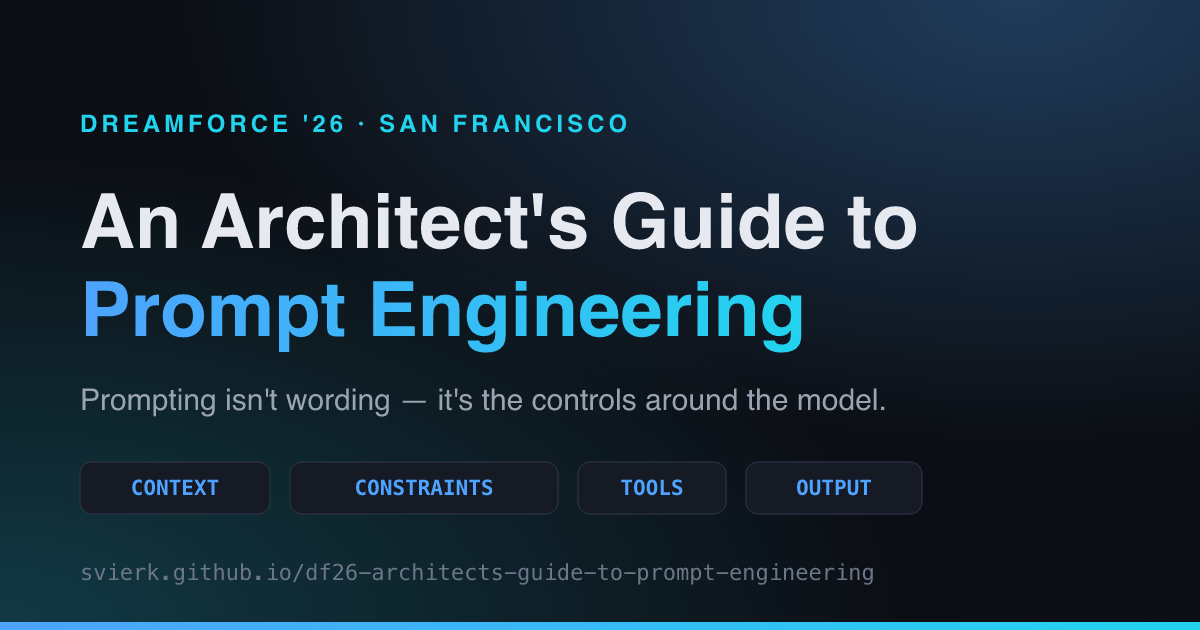
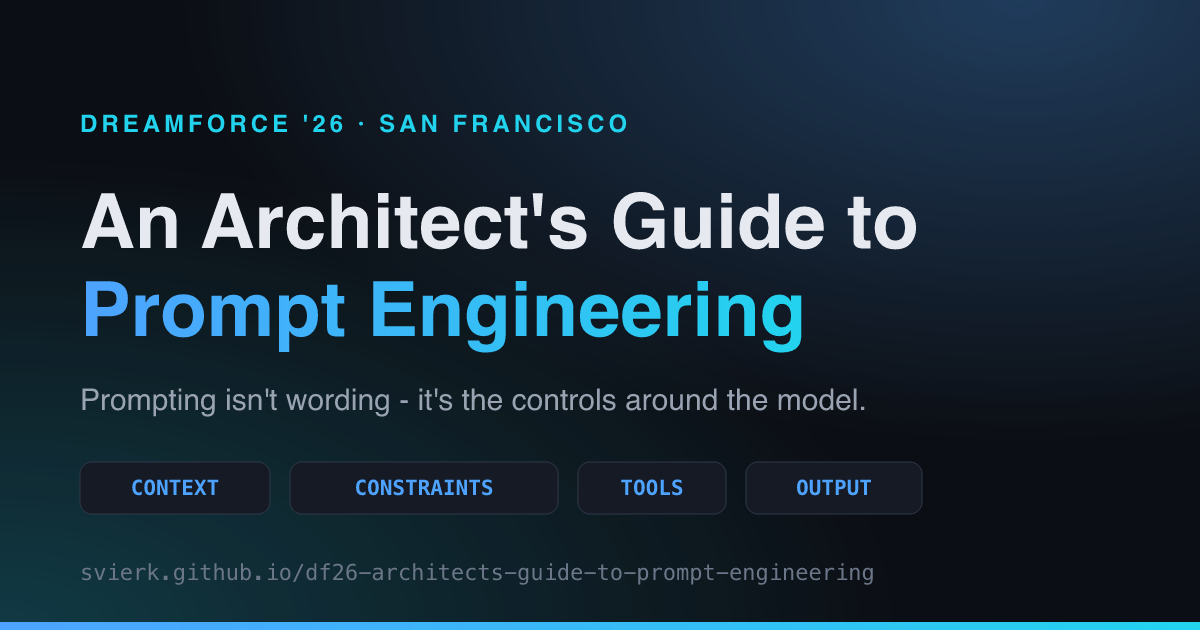
Drop slide and QR code references, use hyphens instead of em dashes
The page is reachable by anyone with the link, so it can no longer assume the
reader saw the slides or scanned a code: the QR image and the "session handout"
framing are gone from the closing section, the hero card no longer refers to the
slides, and the README describes the page as standing on its own. The origin as
a Dreamforce '26 session is kept.

`npm run qr:generate` is kept as a local utility but now writes a git-ignored
qr-code.svg to the repository root instead of shipping an orphaned image with
the published site.

Every em dash in the content, comments and social preview image is replaced with
a plain hyphen.

Changed region(s): [[0.3392, 0.6032, 0.74, 0.6635]]

diff --git a/src/data/demos.ts b/src/data/demos.ts
@@ -34,7 +34,7 @@ export const demos: Demo[] = [
     label: 'Org merger',
     title: 'Assessing an org merger',
     scenario: 'Org 1 (acquirer, ~12 years old) → Org 2 (acquired), ahead of the Q3 code freeze.',
-    unstructured: `I pulled the metadata export for Org 1 — objects are Store_Location__c, Product_Bundle__c, and a legacy Order__c that doesn't match our Retail_Order__c.
+    unstructured: `I pulled the metadata export for Org 1 - objects are Store_Location__c, Product_Bundle__c, and a legacy Order__c that doesn't match our Retail_Order__c.
 
 Can you look through this and tell me what's going on before we merge it into Org 2 ahead of the Q3 code freeze?
 
@@ -47,7 +47,7 @@ Flag anything risky.`,
       tools:
         'Tooling API for active automation (Flows, triggers, Process Builder, ValidationRule) + MetadataComponentDependency (Beta, 2,000-row cap) + schema diff on Order__c vs Retail_Order__c.',
       output:
-        'merge-readiness-scorecard.md — ERD + risk-scored table (Object, Risk Type, Severity, Merge Blocker, Remediation). Self-check: every Blocker = Yes row must cite the field or class it flags.'
+        'merge-readiness-scorecard.md - ERD + risk-scored table (Object, Risk Type, Severity, Merge Blocker, Remediation). Self-check: every Blocker = Yes row must cite the field or class it flags.'
     },
     result: {
       file: 'merge-readiness-scorecard.md',
@@ -65,17 +65,17 @@ Flag anything risky.`,
           'Automation conflict',
           'Medium',
           'No',
-          '2 Flows + StoreLocationTrigger.cls both update Inventory_Count__c — consolidate before go-live'
+          '2 Flows + StoreLocationTrigger.cls both update Inventory_Count__c - consolidate before go-live'
         ],
         [
           'Product_Bundle__c',
           'Non-bulkified DML',
           'High',
           'Yes',
-          'ProductBundleHandler.cls performs DML inside a for-loop — refactor before merge'
+          'ProductBundleHandler.cls performs DML inside a for-loop - refactor before merge'
         ]
       ],
-      note: 'This is the whole artifact — not a narrative summary. It drops straight into the merge steering-committee deck, and the same table format works for the next acquisition’s metadata too.'
+      note: 'This is the whole artifact - not a narrative summary. It drops straight into the merge steering-committee deck, and the same table format works for the next acquisition’s metadata too.'
     },
     rules: [1, 2]
   },
@@ -84,7 +84,7 @@ Flag anything risky.`,
     label: 'Order sync',
     title: 'Scoping the order sync',
     scenario: 'Retiring a point-to-point Apex integration to SAP S/4HANA in favour of MuleSoft Anypoint.',
-    unstructured: `We're retiring OrderSyncService.cls — the point-to-point Apex integration to SAP S/4HANA — for MuleSoft Anypoint.
+    unstructured: `We're retiring OrderSyncService.cls - the point-to-point Apex integration to SAP S/4HANA - for MuleSoft Anypoint.
 
 Before we scope the build, can you look at logic inside classes like OrderSyncService.cls & SAPCalloutHandler.cls and explain how the sync to SAP actually works end to end?`,
     protocol: {
@@ -95,7 +95,7 @@ Before we scope the build, can you look at logic inside classes like OrderSyncSe
       tools:
         'Static code search across both classes + Tooling API MetadataComponentDependency (Beta) + OpenAPI diff against the MuleSoft Order API spec.',
       output:
-        'integration-cutover-checklist.md — sequence diagram + table (Endpoint, Current Pattern, Target Pattern, Risk, Cutover Order). Self-check: every Risk = High row must name the limit it violates.'
+        'integration-cutover-checklist.md - sequence diagram + table (Endpoint, Current Pattern, Target Pattern, Risk, Cutover Order). Self-check: every Risk = High row must name the limit it violates.'
     },
     result: {
       file: 'integration-cutover-checklist.md',
@@ -105,25 +105,25 @@ Before we scope the build, can you look at logic inside classes like OrderSyncSe
           'POST /sap/orders (SAPCalloutHandler.sendOrder)',
           'Sync, called from Retail_Order__c after-insert trigger',
           'Async via MuleSoft Order API',
-          'High — callout in trigger risks blocking the save',
+          'High - callout in trigger risks blocking the save',
           '1'
         ],
         [
           'SAP inventory pull (OrderSyncService.pullInventory)',
           'Async @future, no retry logic',
           'MuleSoft scheduled batch w/ retry',
-          'Medium — missing idempotency key',
+          'Medium - missing idempotency key',
           '2'
         ],
         [
           'Warehouse_Transfer__c sync (OrderSyncService.pushTransfer)',
           'Async Queueable, callout after DML in same txn',
           'MuleSoft event-driven flow',
-          'High — throws “uncommitted work pending”',
+          'High - throws “uncommitted work pending”',
           '3'
         ]
       ],
-      note: 'Every row is scoped and sequenced — an estimate-ready cutover plan, not a description. The same table shape works for the next point-to-point integration you retire.'
+      note: 'Every row is scoped and sequenced - an estimate-ready cutover plan, not a description. The same table shape works for the next point-to-point integration you retire.'
     },
     rules: [3, 4]
   },
@@ -131,7 +131,7 @@ Before we scope the build, can you look at logic inside classes like OrderSyncSe
     id: 'fsc-metadata',
     label: 'FSC metadata',
     title: 'Designing agent metadata in an Industries Cloud org',
-    scenario: 'Business admins keep requesting new fields on FSC objects — and half of them break the next release.',
+    scenario: 'Business admins keep requesting new fields on FSC objects - and half of them break the next release.',
     unstructured: `We keep getting requests from business admins to add new fields to Financial Account and other FSC objects, and half the time it breaks something on the next release.
 
 Can you help design an Agentforce agent that handles these requests instead of admins going straight to Setup?`,
@@ -139,11 +139,11 @@ Can you help design an Agentforce agent that handles these requests instead of a
       context:
         'FinServ__FinancialAccount__c, FinServ__FinancialAccountRole__c, the standard ActionPlan / ActionPlanTemplate objects, and the Household record type with FinServ__ReciprocalRole__c relationships already in the org.',
       constraints:
-        'Governance policy, not a platform limit — only propose a custom object with a lookup, never a custom field on a FinServ__ object. Discover existing automation before drafting. Before deployment always seek an explicit sign-off.',
+        'Governance policy, not a platform limit - only propose a custom object with a lookup, never a custom field on a FinServ__ object. Discover existing automation before drafting. Before deployment always seek an explicit sign-off.',
       tools:
         'Metadata Describe API scoped to the FinServ__ namespace, Tooling API MetadataComponentDependency (Beta) to find existing Action Plan Templates and automation, package version check.',
       output:
-        'metadata-change-request.md — requested change, discovery summary, proposed custom-object design and an explicit approval flag. Self-check: Approval defaults to Needs Approval unless sign-off appears in Context.'
+        'metadata-change-request.md - requested change, discovery summary, proposed custom-object design and an explicit approval flag. Self-check: Approval defaults to Needs Approval unless sign-off appears in Context.'
     },
     result: {
       file: 'metadata-change-request.md',
@@ -159,11 +159,11 @@ Can you help design an Agentforce agent that handles these requests instead of a
         ],
         [
           'Proposed Design',
-          'New custom object Loan_Application__c — lookup to FinServ__FinancialAccount__c and Account (Household); triggers the existing “Loan Underwriting” Action Plan Template via Flow'
+          'New custom object Loan_Application__c - lookup to FinServ__FinancialAccount__c and Account (Household); triggers the existing “Loan Underwriting” Action Plan Template via Flow'
         ],
-        ['Approval Status', '⚠ Needs Architect Approval — agent has no deploy permission']
+        ['Approval Status', '⚠ Needs Architect Approval - agent has no deploy permission']
       ],
-      note: 'The agent never touches Setup. It hands a human architect exactly what they need to approve or reject in under a minute — controlled execution, not unattended automation.'
+      note: 'The agent never touches Setup. It hands a human architect exactly what they need to approve or reject in under a minute - controlled execution, not unattended automation.'
     },
     rules: [5, 6]
   }

diff --git a/src/data/rules.ts b/src/data/rules.ts
@@ -16,7 +16,7 @@ export const rules: Rule[] = [
     number: 1,
     title: 'Name the artifact, not the category',
     short: 'Vague names force a guess. Real API names don’t.',
-    why: 'Say “the order object” and the model has to guess which one you mean — and it will guess wrong. Actual API names leave nothing to guess.',
+    why: 'Say “the order object” and the model has to guess which one you mean - and it will guess wrong. Actual API names leave nothing to guess.',
     fromDemo:
       'The prompt named the exact objects and class: Retail_Order__c, Warehouse_Transfer__c and ProductBundleHandler.cls.',
     demoId: 'org-merger'
@@ -24,7 +24,7 @@ export const rules: Rule[] = [
   {
     number: 2,
     title: 'Verify before assuming',
-    short: 'Same name, same purpose — not always the same structure.',
+    short: 'Same name, same purpose - not always the same structure.',
     why: 'Two orgs can carry the same object name for two different designs. Verify current metadata and dependencies in each org before you map or merge.',
     fromDemo:
       'Before planning the merge it compared Order__c with Retail_Order__c, and checked each org’s automation instead of assuming they behaved alike.',
@@ -44,16 +44,16 @@ export const rules: Rule[] = [
     short: 'Add an owner and a sequence. Turn every finding into a task.',
     why: 'A paragraph explaining a risk is something someone has to re-read and translate into work. A sequence number and an owner is already the task.',
     fromDemo:
-      'Each finding became a cutover step with a clear order and risk — not a paragraph describing the problem.',
+      'Each finding became a cutover step with a clear order and risk - not a paragraph describing the problem.',
     demoId: 'order-sync'
   },
   {
     number: 5,
     title: 'Forbid the model’s default shortcut',
-    short: 'Block the wrong path — not just state the right outcome.',
+    short: 'Block the wrong path - not just state the right outcome.',
     why: 'A model defaults to the most common pattern in its training data. Describing the right answer isn’t enough; you must rule out the tempting wrong one.',
     fromDemo:
-      'The prompt blocked the shortcut: do not add a custom field to the managed Financial Account object — propose a custom object with a lookup instead.',
+      'The prompt blocked the shortcut: do not add a custom field to the managed Financial Account object - propose a custom object with a lookup instead.',
     demoId: 'fsc-metadata'
   },
   {
@@ -62,7 +62,7 @@ export const rules: Rule[] = [
     short: 'Require a discovery summary. If it isn’t shown, it wasn’t verified.',
     why: 'If the output format has no slot for “what I found already exists”, you have no way to tell whether the model actually checked or simply guessed.',
     fromDemo:
-      'Before proposing a design the model had to list what it discovered in the org — which surfaced existing Action Plan Templates the design had to account for.',
+      'Before proposing a design the model had to list what it discovered in the org - which surfaced existing Action Plan Templates the design had to account for.',
     demoId: 'fsc-metadata'
   }
 ];

diff --git a/src/data/controls.ts b/src/data/controls.ts
@@ -21,13 +21,13 @@ export const controlMoves: ControlMove[] = [
     title: 'Context',
     summary: "What the model needs to know about the org, the org's metadata and the task.",
     protocol:
-      'Here is the org-specific evidence — metadata, code, business rules, prior decisions — attached or pasted, not assumed.'
+      'Here is the org-specific evidence - metadata, code, business rules, prior decisions - attached or pasted, not assumed.'
   },
   {
     number: '02',
     key: 'CONSTRAINTS',
     title: 'Constraints',
-    summary: 'What the model must not do — and what to do instead, so guardrails redirect rather than just block.',
+    summary: 'What the model must not do - and what to do instead, so guardrails redirect rather than just block.',
     protocol:
       'Only use what is provided; flag anything inferred. Pair every guardrail with the fallback action, not just the prohibition.'
   },
@@ -35,9 +35,9 @@ export const controlMoves: ControlMove[] = [
     number: '03',
     key: 'TOOLS',
     title: 'Tools',
-    summary: 'What the model can call — describe calls, search, code execution, connected systems.',
+    summary: 'What the model can call - describe calls, search, code execution, connected systems.',
     protocol:
-      'Name exactly what the model may call to verify itself — describe calls, code search, sandbox execution — before it answers.'
+      'Name exactly what the model may call to verify itself - describe calls, code search, sandbox execution - before it answers.'
   },
   {
     number: '04',
@@ -45,6 +45,6 @@ export const controlMoves: ControlMove[] = [
     title: 'Output + Evaluation',
     summary: 'The exact shape of the response, plus the self-check it must pass before it ships.',
     protocol:
-      'Define the exact artifact shape and the self-check it must pass first — table, diagram, schema — designed so it can be validated, diffed and reused.'
+      'Define the exact artifact shape and the self-check it must pass first - table, diagram, schema - designed so it can be validated, diffed and reused.'
   }
 ];

diff --git a/src/data/problem.ts b/src/data/problem.ts
@@ -26,14 +26,14 @@ export interface Cause {
 export const causes: Cause[] = [
   {
     title: 'Hidden dependencies',
-    lead: 'Object Describe shows schema — not runtime behaviour.',
+    lead: 'Object Describe shows schema - not runtime behaviour.',
     detail:
       'Flows, Apex triggers, validation rules, roll-ups, invocable Apex and async paths all interact through the order of execution.',
     consequence: 'Without an automation inventory and a dependency trace, the answer is incomplete.'
   },
   {
     title: 'Unverified conclusions',
-    lead: 'A metadata export is a snapshot — not proof of what is active now.',
+    lead: 'A metadata export is a snapshot - not proof of what is active now.',
     detail: 'Fields, relationships, active Flow versions and package metadata change continuously.',
     consequence:
       'Without a fresh Describe and metadata retrieval tied to a specific org and API version, the same prompt analyses a different system tomorrow.'
@@ -42,7 +42,7 @@ export const causes: Cause[] = [
     title: 'Execution context',
     lead: 'A design valid for System Administrator may fail for real users.',
     detail:
-      'Sharing, CRUD/FLS, permission sets, user versus system mode — and package boundaries control what can be read, changed or executed.',
+      'Sharing, CRUD/FLS, permission sets, user versus system mode - and package boundaries control what can be read, changed or executed.',
     consequence: 'Without persona and runtime context, two answers are not comparable.'
   }
 ];

diff --git a/src/data/session.ts b/src/data/session.ts
@@ -12,9 +12,9 @@ export const session = {
   date: '2026-09-15',
   repo: 'https://github.com/svierk/df26-architects-guide-to-prompt-engineering',
   /** Shown in the hero and used as the meta description of the page. */
-  premise: 'Most teams think prompting is about wording. It isn’t — it’s about the controls.',
+  premise: 'Most teams think prompting is about wording. It isn’t - it’s about the controls.',
   summary:
-    'The four control moves, one reusable protocol, six rules and three worked Salesforce examples — the complete session in a single page.',
+    'The four control moves, one reusable protocol, six rules and three worked Salesforce examples - the complete session in a single page.',
   /** The learning objectives the session was accepted with. */
   objectives: [
     'Design prompts using context, constraints, tools and structured outputs.',

diff --git a/README.md b/README.md
@@ -1,6 +1,6 @@
 # Architects' Guide to Prompt Engineering
 
-🧭 Session asset for **"An Architect's Guide to Prompt Engineering"** — Dreamforce '26, San Francisco.
+🧭 Session asset for **"An Architect's Guide to Prompt Engineering"** - Dreamforce '26, San Francisco.
 
 **→ [svierk.github.io/df26-architects-guide-to-prompt-engineering](https://svierk.github.io/df26-architects-guide-to-prompt-engineering/)**
 
@@ -10,18 +10,18 @@
 
 ## What this is
 
-The complete session on a single page — built so it stands on its own for anyone who scans the QR code from the room, or gets the link afterwards:
+The complete session on a single page, written to stand on its own for anyone who arrives at the link without any other context:
 
 | Section                | What you get                                                                                                                                              |
 | ---------------------- | --------------------------------------------------------------------------------------------------------------------------------------------------------- |
-| **The problem**        | Why a Salesforce org — a running system, not a metadata dump — breaks an unstructured prompt                                                              |
+| **The problem**        | Why a Salesforce org - a running system, not a metadata dump - breaks an unstructured prompt                                                              |
 | **Four control moves** | Context, Constraints, Tools, Output + Evaluation                                                                                                          |
 | **The protocol**       | The copy-and-paste skeleton that packages all four into one prompt                                                                                        |
-| **Prompt builder**     | Fill the four control moves, watch the prompt assemble, and get scored against the six rules — live, in your browser                                      |
-| **Three demos**        | Org merger, order-sync cutover and FSC metadata governance — each shown as an unstructured prompt vs. a structured protocol, with the artifact it returns |
+| **Prompt builder**     | Fill the four control moves, watch the prompt assemble, and get scored against the six rules - live, in your browser                                      |
+| **Three demos**        | Org merger, order-sync cutover and FSC metadata governance - each shown as an unstructured prompt vs. a structured protocol, with the artifact it returns |
 | **Six rules**          | The field guide, each rule traced back to the example it came from                                                                                        |
 
-The prompt builder keeps your draft in `localStorage` — nothing is sent anywhere, and there is no analytics or tracking on the page.
+The prompt builder keeps your draft in `localStorage` - nothing is sent anywhere, and there is no analytics or tracking on the page.
 
 ## Session objectives
 
@@ -47,18 +47,17 @@ npm run prettier         # format
 npm run prettier:verify  # list files that would change
 ```
 
-### Regenerating the assets
+### Regenerating the social preview
 
-Both are committed to `public/` and only need regenerating when the published URL or the session title changes:
+`public/og-image.png` is committed and only needs regenerating when the session title or the published URL changes:
 
 ```bash
-npm run qr:generate  # public/qr.svg  - the QR code for the closing slide
-npm run og:generate  # public/og-image.png - the social preview image
+npm run og:generate
 ```
 
 ### Where the content lives
 
-All session content sits in typed data files, separate from the presentation layer — editing a rule or a demo never means touching a component:
+All session content sits in typed data files, separate from the presentation layer - editing a rule or a demo never means touching a component:
 
 ```
 src/data/session.ts   session metadata, speakers, objectives
@@ -68,7 +67,7 @@ src/data/demos.ts     the three worked examples and their result artifacts
 src/data/rules.ts     the six rules of the field guide
 ```
 
-The readiness check in the builder lives in `src/components/PromptBuilder.astro` — one heuristic per rule, deliberately simple and readable.
+The readiness check in the builder lives in `src/components/PromptBuilder.astro` - one heuristic per rule, deliberately simple and readable.
 
 ## Deployment
 
@@ -76,9 +75,9 @@ Every push to `main` builds the site and publishes it to GitHub Pages via [`.git
 
 ## Speakers
 
-- [Chetan Chugh](https://www.linkedin.com/in/chetan-chugh-18264b34/) — Chief Architect & Salesforce CTA, Capgemini
-- [Sebastiano Schwarz](https://www.linkedin.com/in/sebastiano-schwarz/) — Salesforce CTO Germany, Capgemini
+- [Chetan Chugh](https://www.linkedin.com/in/chetan-chugh-18264b34/) - Chief Architect & Salesforce CTA, Capgemini
+- [Sebastiano Schwarz](https://www.linkedin.com/in/sebastiano-schwarz/) - Salesforce CTO Germany, Capgemini
 
 ## License
 
-[MIT](LICENSE) — take the protocol, the rules and the page structure and reuse them in your own sessions.
+[MIT](LICENSE) - take the protocol, the rules and the page structure and reuse them in your own sessions.
